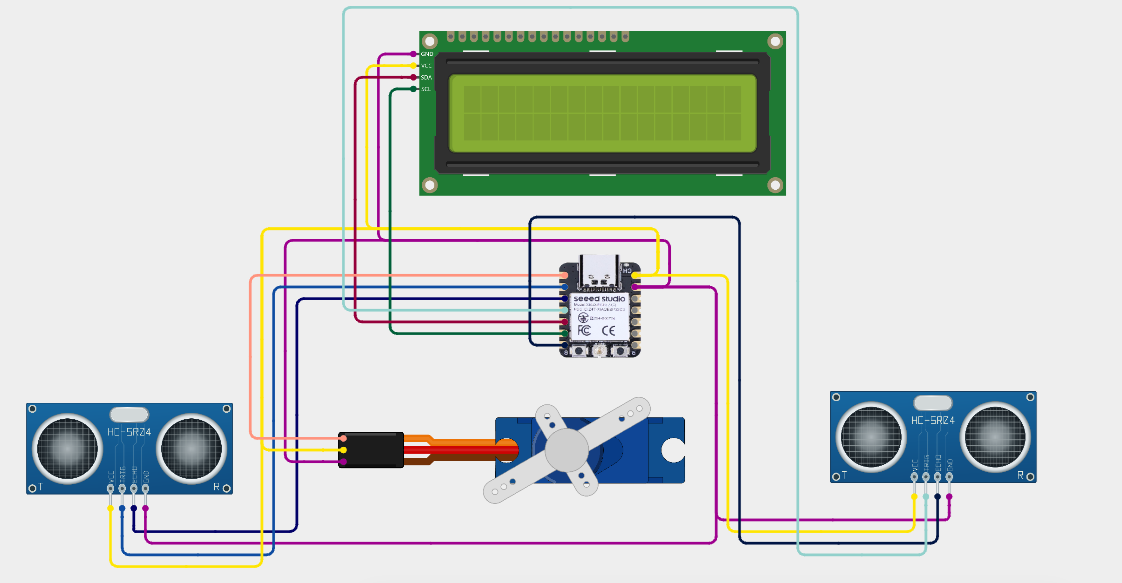
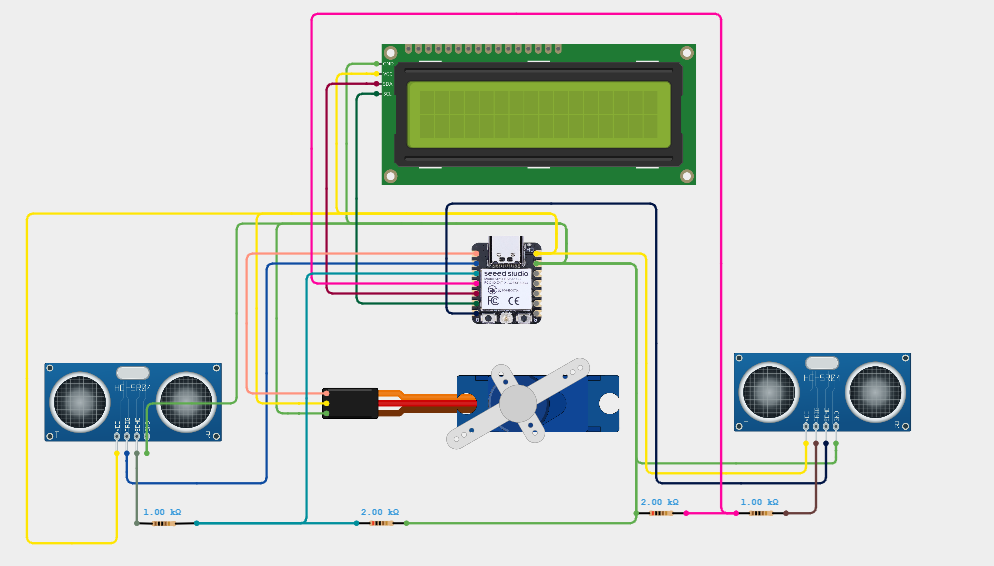
adding voltage divider

Changed region(s): [[0.0, 0.0, 0.9356, 0.9912]]

diff --git a/README.md b/README.md
@@ -2,12 +2,18 @@
 Parking lot gate simulation using Esp32
 
 ## Bill of Materials
-The project needs an esp32 (ESP32-C3 seeed studio), 2 HC-SR04 ultrasonic sensors, SG90 Micro Servo, 16x2 LCD display with I2C interface, breadboard and jumper wires.
+The project needs an esp32 (ESP32-C3 seeed studio), 2 HC-SR04 (or RCWL-9610A design) ultrasonic sensors, SG90 Micro Servo, 16x2 LCD display with I2C interface, breadboard and jumper wires.
+
 Other Esp32 variants are compatible too, but the pins may be different.
+
+*Important: If you are using standard HC-SR04 ultrasonic sensors(that input 5V), a voltage divider is needed (1k ohm resistor and 2k ohm resistor)!
+
 No soldering needed.
 
 
 ## Wiring
+
+*For standard HC-SR04 ultrasonic sensors connect a 1k ohm resistor in series from Echo to Esp32 pin and a 2k ohm resistor from the Esp32 pin to Gnd.
 
 Ultrasonic sensor In:   Vcc -> VIN/VBUS
                         Trig -> Pin 3
@@ -27,6 +33,7 @@ Lcd Display:            Gnd -> Gnd
 Micro Servo:            Brown wire -> Gnd
                         Red wire -> VIN/VBUS
                         Yellow wire -> Pin 2
+
 
 ## Dependencies
 LiquidCrystal_I2C.h
